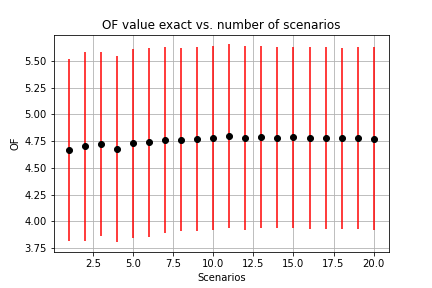
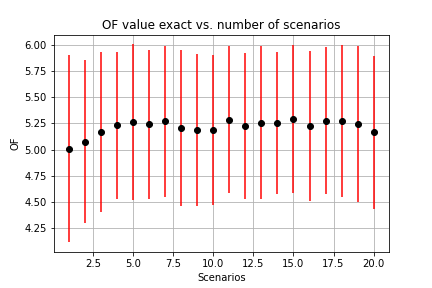
ALTRE MODIFICHE

diff --git a/simulator/tester.py b/simulator/tester.py
@@ -50,13 +50,13 @@ class Tester():
         
 
     def in_sample_stability(self, problem, sampler, instance, n_scenarios_sol, dict_data, n_repetitions):
-        ans = []
+        
         boxes_data=[]
         #generate N_scenarios_sol for the reachability generation to train the model on
         #each iteration has a different number of scenarios to analyze how the system behaves when increasing the number of scenarios
         for i in range(1,n_scenarios_sol+1):
             boxes_data.append([])
-        
+            ans = []
             for nr in range(n_repetitions):
                 reachability = sampler.reachability_generation(
                     instance,
@@ -83,12 +83,12 @@ class Tester():
     def out_of_sample_stability(self, problem, sampler, instance, n_scenarios_sol, n_scenarios_out, dict_data, n_repetitions):
         
         boxes_data=[]
-        ans = []
+        
         
         #also for the out of sample stability a scenario dependent analysis. Each run is performed with a increasing number of scenarios for the seed set resolution
         for i in range(1, n_scenarios_sol+1):
             #Part1: solve the problem and find the seed set
-          
+            ans = []
             boxes_data.append([])
             for nr in range(n_repetitions):
 

diff --git a/main.py b/main.py
@@ -70,8 +70,8 @@ if __name__ == '__main__':
     # 1) in sample stability #####################################################################
     test = Tester() #instantiating the tester class
     
-    n_repetitions = 10
-    n_scenarios_in = 10
+    n_repetitions = 50
+    n_scenarios_in = 20
 
     of_grblist, of_ex_boxes=test.in_sample_stability(prb, sam, inst, n_scenarios_in, dict_data, n_repetitions) #in sample resolution method for the exact solver
     of_heulist, of_heu_boxes=test.in_sample_stability(heu1, sam, inst, n_scenarios_in, dict_data, n_repetitions) #in sample resolution method for the heuristic
@@ -109,7 +109,7 @@ if __name__ == '__main__':
     )
     # 2) out of sample stability #######################################################################
     
-    n_repetitions=10
+    n_repetitions=50
     n_scenarios_in = 20 #n of scenarios used to train the model
     n_scenarios_out = 10 #n of scenarios used to test the results obtained
     labels=range(1, n_scenarios_in+1)
